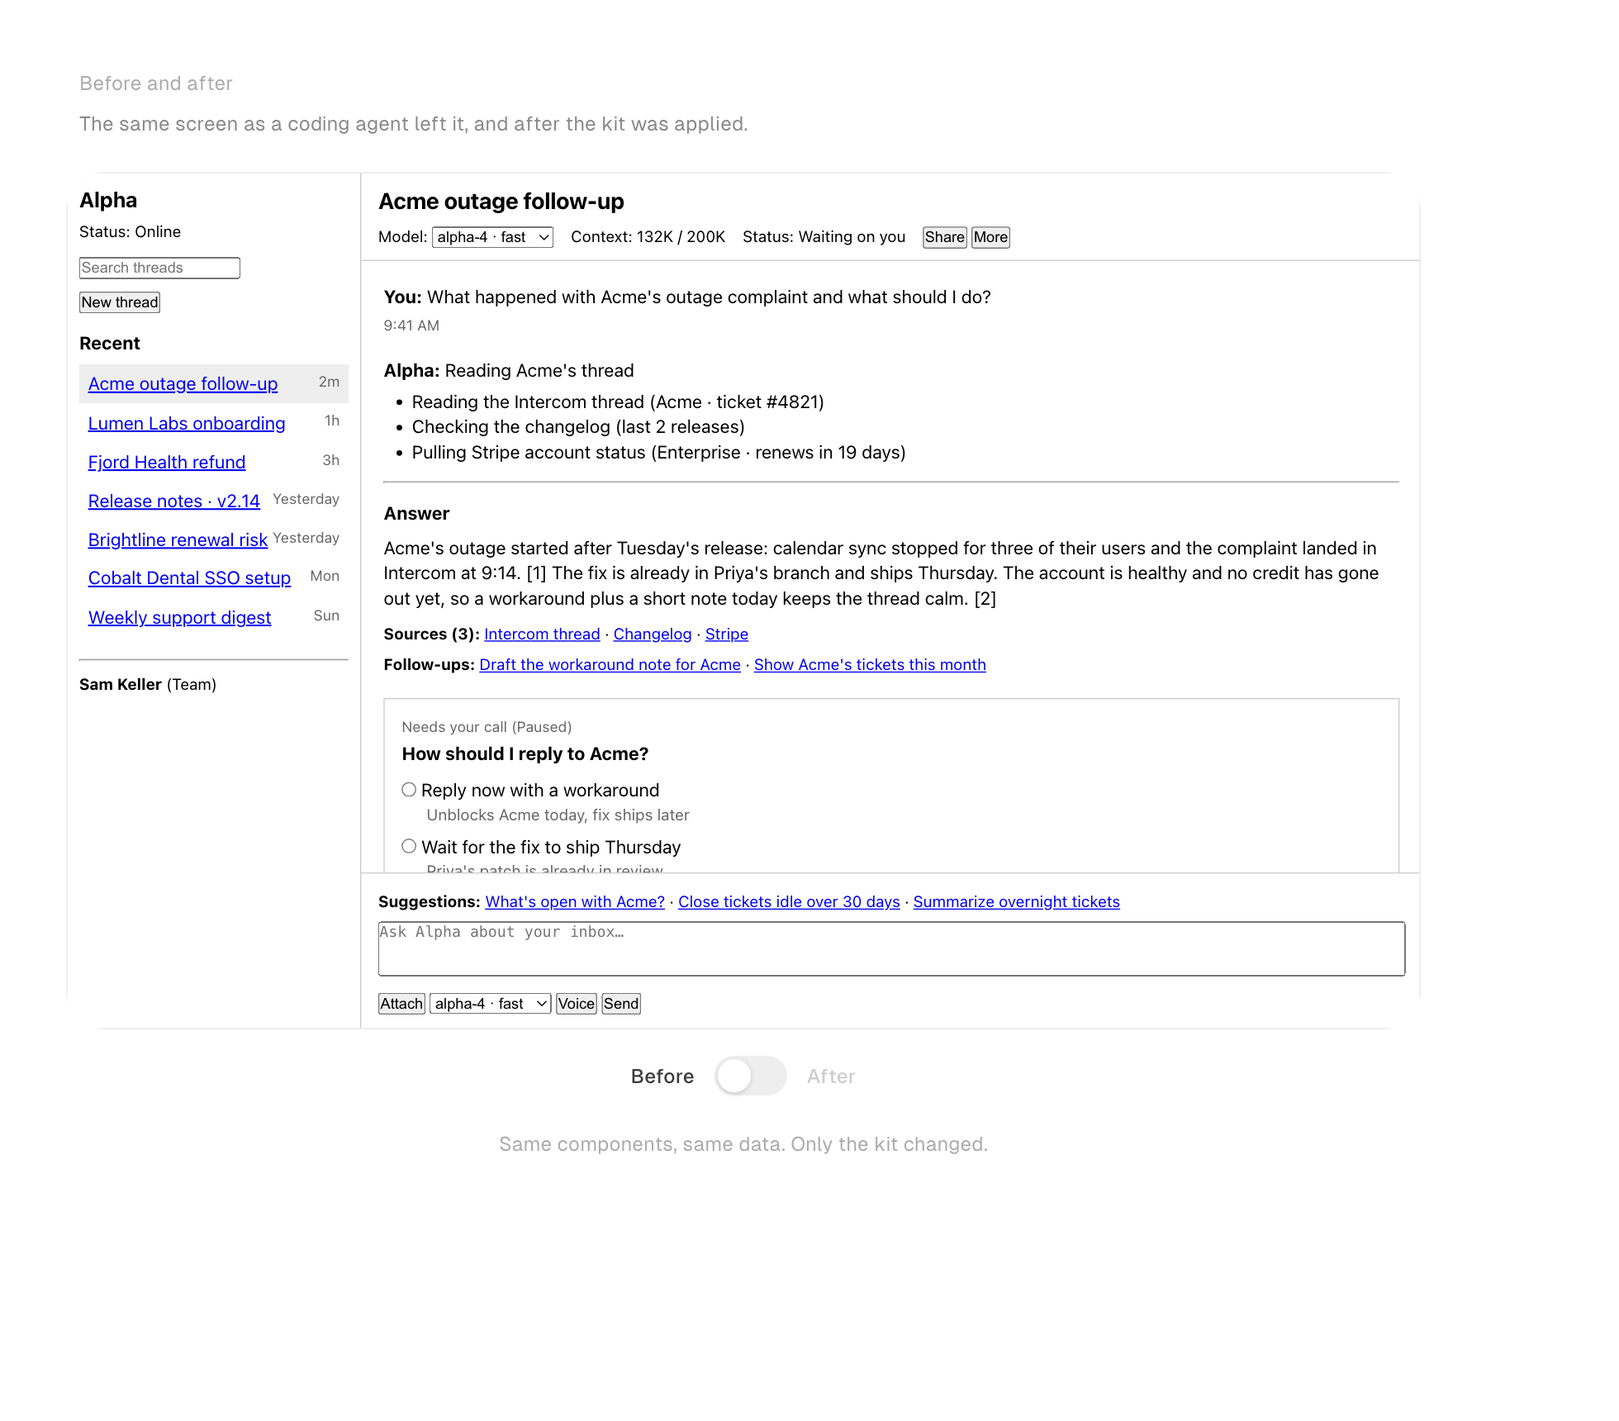
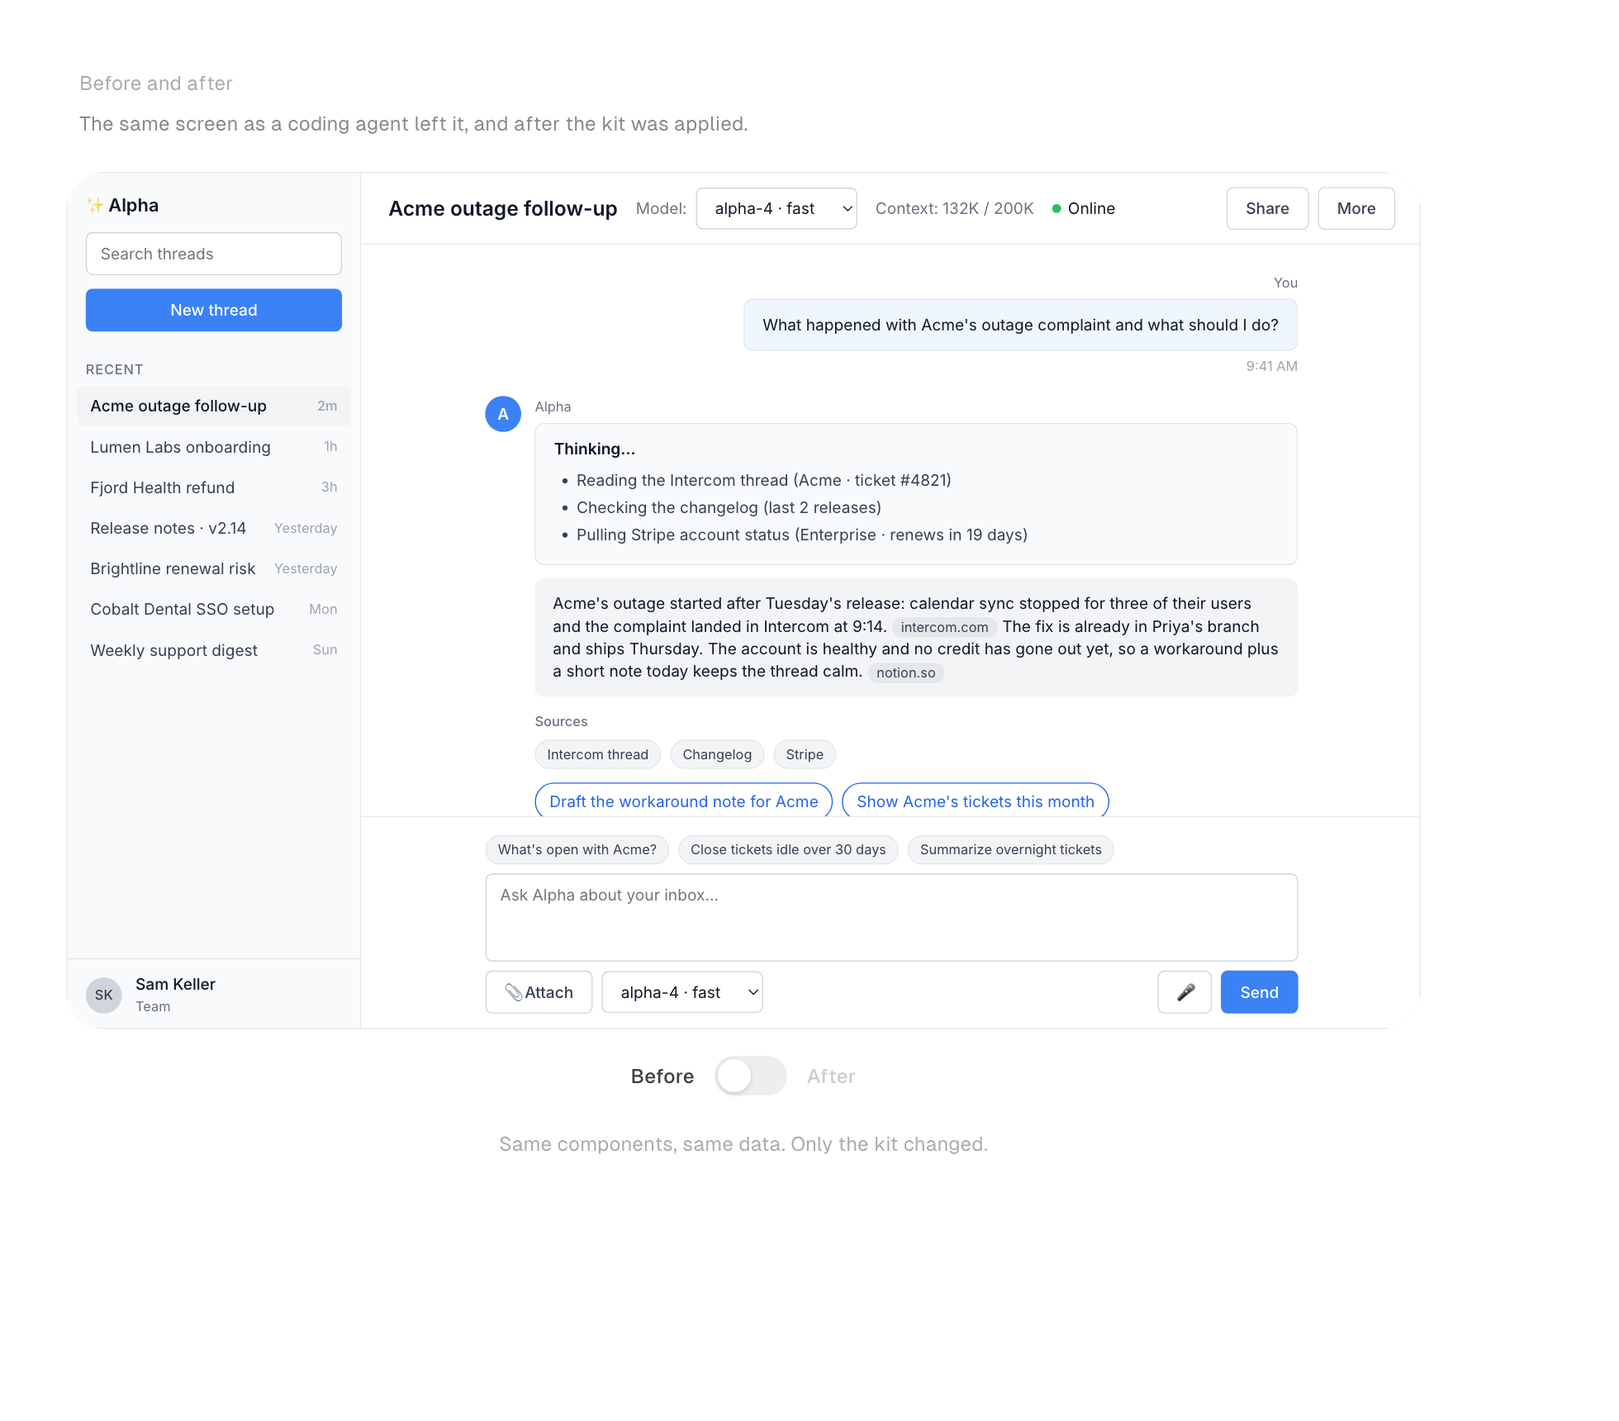
Before screen: a realistic generic first pass, not unstyled HTML
Inter, Tailwind palette, blue-500 buttons, gray sidebar, rounded cards and
bubbles, chips, emoji icons. Same data and regions as the After.

diff --git a/halaska-kit/halaska-kit-v1.3.jsx b/halaska-kit/halaska-kit-v1.3.jsx
@@ -11980,151 +11980,273 @@ function BeforeAfterSection({ theme }) {
 // Same content and regions as ChatParadigmExample, rendered with plain HTML
 // and browser defaults. Reuses the CHATX_* constants so the copy is identical.
 
-const CHATB_FONT = "system-ui, -apple-system, Segoe UI, Helvetica, Arial, sans-serif";
-const CHATB_LINK = { color: "#0000ee", textDecoration: "underline" };
+const CHATB_FONT = "Inter, ui-sans-serif, system-ui, -apple-system, sans-serif";
+
+// Tailwind default palette, as an AI first pass would reach for it.
+const CHATB_C = {
+  white: "#ffffff",
+  gray50: "#f9fafb", gray100: "#f3f4f6", gray200: "#e5e7eb", gray300: "#d1d5db",
+  gray400: "#9ca3af", gray500: "#6b7280", gray700: "#374151", gray900: "#111827",
+  blue50: "#eff6ff", blue500: "#3b82f6", blue600: "#2563eb",
+  green500: "#22c55e", yellow100: "#fef9c3", yellow800: "#854d0e",
+};
+
+const CHATB_SHADOW = "0 1px 2px rgba(0,0,0,0.05)";
+
 const CHATB_SUGGESTIONS = [
   "What's open with Acme?",
   "Close tickets idle over 30 days",
   "Summarize overnight tickets",
 ];
 
-function ChatBLinks({ items }) {
-  return items.map((item, i) => (
-    <span key={i}>
-      {i > 0 ? " · " : null}
-      <a href="#" onClick={(e) => e.preventDefault()} style={CHATB_LINK}>{item}</a>
-    </span>
-  ));
+const CHATB_BTN = {
+  fontFamily: CHATB_FONT, fontSize: 14, fontWeight: 500, lineHeight: "20px",
+  padding: "8px 16px", borderRadius: 6, cursor: "pointer", whiteSpace: "nowrap",
+};
+const CHATB_BTN_PRIMARY = { ...CHATB_BTN, background: CHATB_C.blue500, color: CHATB_C.white, border: "1px solid " + CHATB_C.blue500 };
+const CHATB_BTN_SECONDARY = { ...CHATB_BTN, background: CHATB_C.white, color: CHATB_C.gray700, border: "1px solid " + CHATB_C.gray300 };
+
+const CHATB_FIELD = {
+  fontFamily: CHATB_FONT, fontSize: 14, lineHeight: "20px", color: CHATB_C.gray900,
+  background: CHATB_C.white, border: "1px solid " + CHATB_C.gray300, borderRadius: 6,
+  padding: "8px 12px", boxSizing: "border-box",
+};
+
+const CHATB_PILL = {
+  display: "inline-block", fontFamily: CHATB_FONT, fontSize: 12, lineHeight: "16px",
+  padding: "4px 10px", borderRadius: 9999, background: CHATB_C.gray100,
+  border: "1px solid " + CHATB_C.gray200, color: CHATB_C.gray700, whiteSpace: "nowrap",
+};
+
+function ChatBButton({ variant, onClick, style, children }) {
+  const base = variant === "primary" ? CHATB_BTN_PRIMARY : CHATB_BTN_SECONDARY;
+  return <button type="button" onClick={onClick} style={{ ...base, ...style }}>{children}</button>;
+}
+
+function ChatBModelSelect({ value, onChange, style }) {
+  return (
+    <select value={value} onChange={(e) => onChange(e.target.value)} style={{ ...CHATB_FIELD, cursor: "pointer", ...style }}>
+      {CHATX_MODELS.map(m => <option key={m.id} value={m.id}>{m.label}</option>)}
+    </select>
+  );
+}
+
+function ChatBSectionLabel({ children, style }) {
+  return (
+    <div style={{ fontSize: 12, fontWeight: 500, color: CHATB_C.gray500, textTransform: "uppercase", letterSpacing: "0.05em", ...style }}>
+      {children}
+    </div>
+  );
 }
 
 function ChatParadigmBefore({ theme }) {
   const [activeThread, setActiveThread] = useState(CHATX_THREADS[0].id);
   const [model, setModel] = useState(CHATX_MODELS[0].id);
+  const [search, setSearch] = useState("");
   const [draft, setDraft] = useState("");
   const [choice, setChoice] = useState("");
   const activeTitle = (CHATX_THREADS.find(t => t.id === activeThread) || CHATX_THREADS[0]).title;
-
-  let cite = 0;
+  const visibleThreads = CHATX_THREADS.filter(t => t.title.toLowerCase().includes(search.trim().toLowerCase()));
 
   return (
     <div style={{
       position: "relative", width: "100%", height: "100%", overflow: "hidden",
-      background: "#fff", color: "#000", fontFamily: CHATB_FONT, fontSize: 16, lineHeight: 1.4,
+      background: CHATB_C.white, color: CHATB_C.gray900, fontFamily: CHATB_FONT, fontSize: 14, lineHeight: "20px",
       display: "flex",
     }}>
-      {/* Left: thread list */}
-      <div style={{ width: 260, flexShrink: 0, borderRight: "1px solid #ccc", overflow: "auto", padding: 10, boxSizing: "border-box" }}>
-        <h3 style={{ margin: "0 0 5px" }}>Alpha</h3>
-        <p style={{ margin: "0 0 10px", fontSize: 14 }}>Status: Online</p>
-        <div style={{ marginBottom: 8 }}>
-          <input type="text" placeholder="Search threads" />
+      {/* Sidebar */}
+      <div style={{
+        width: 260, flexShrink: 0, display: "flex", flexDirection: "column",
+        background: CHATB_C.gray50, borderRight: "1px solid " + CHATB_C.gray200, boxSizing: "border-box",
+      }}>
+        <div style={{ padding: 16, display: "flex", flexDirection: "column", gap: 12 }}>
+          <div style={{ fontSize: 16, fontWeight: 600, lineHeight: "24px" }}>✨ Alpha</div>
+          <input type="text" value={search} onChange={(e) => setSearch(e.target.value)}
+            placeholder="Search threads" style={{ ...CHATB_FIELD, width: "100%" }} />
+          <ChatBButton variant="primary" onClick={() => {}} style={{ width: "100%" }}>New thread</ChatBButton>
         </div>
-        <div style={{ marginBottom: 15 }}>
-          <button type="button">New thread</button>
+
+        <div style={{ flex: 1, minHeight: 0, overflow: "auto", padding: "0 8px 8px" }}>
+          <ChatBSectionLabel style={{ padding: "8px 8px 4px" }}>Recent</ChatBSectionLabel>
+          {visibleThreads.map(t => {
+            const active = t.id === activeThread;
+            return (
+              <button key={t.id} type="button" onClick={() => setActiveThread(t.id)}
+                style={{
+                  display: "flex", alignItems: "center", justifyContent: "space-between", gap: 8,
+                  width: "100%", padding: "8px 12px", borderRadius: 6, border: "none", cursor: "pointer", textAlign: "left",
+                  background: active ? CHATB_C.gray100 : "transparent",
+                  fontFamily: CHATB_FONT, fontSize: 14, lineHeight: "20px",
+                  color: active ? CHATB_C.gray900 : CHATB_C.gray700, fontWeight: active ? 500 : 400,
+                }}>
+                <span style={{ overflow: "hidden", textOverflow: "ellipsis", whiteSpace: "nowrap" }}>{t.title}</span>
+                <span style={{ fontSize: 12, color: CHATB_C.gray400, flexShrink: 0 }}>{t.time}</span>
+              </button>
+            );
+          })}
         </div>
-        <b>Recent</b>
-        <ul style={{ listStyle: "none", margin: "8px 0 0", padding: 0 }}>
-          {CHATX_THREADS.map(t => (
-            <li key={t.id}
-              style={{ padding: "6px 8px", background: t.id === activeThread ? "#eee" : "transparent" }}>
-              <a href="#" style={CHATB_LINK}
-                onClick={(e) => { e.preventDefault(); setActiveThread(t.id); }}>{t.title}</a>
-              <span style={{ float: "right", fontSize: 13, color: "#666" }}>{t.time}</span>
-            </li>
-          ))}
-        </ul>
-        <hr style={{ margin: "20px 0 10px" }} />
-        <p style={{ margin: 0, fontSize: 14 }}><b>Sam Keller</b> (Team)</p>
+
+        <div style={{
+          display: "flex", alignItems: "center", gap: 12, padding: "12px 16px",
+          borderTop: "1px solid " + CHATB_C.gray200,
+        }}>
+          <div style={{
+            width: 32, height: 32, borderRadius: 9999, background: CHATB_C.gray300, color: CHATB_C.gray700,
+            display: "flex", alignItems: "center", justifyContent: "center", fontSize: 12, fontWeight: 500, flexShrink: 0,
+          }}>SK</div>
+          <div style={{ minWidth: 0 }}>
+            <div style={{ fontWeight: 500, whiteSpace: "nowrap", overflow: "hidden", textOverflow: "ellipsis" }}>Sam Keller</div>
+            <div style={{ fontSize: 12, color: CHATB_C.gray500 }}>Team</div>
+          </div>
+        </div>
       </div>
 
-      {/* Main area */}
+      {/* Main column */}
       <div style={{ flex: 1, minWidth: 0, display: "flex", flexDirection: "column" }}>
         {/* Top bar */}
-        <div style={{ borderBottom: "1px solid #ccc", padding: "10px 15px", flexShrink: 0 }}>
-          <h2 style={{ margin: "0 0 8px", fontSize: 20 }}>{activeTitle}</h2>
-          <div style={{ fontSize: 14 }}>
-            <label>Model: <select value={model} onChange={(e) => setModel(e.target.value)}>
-              {CHATX_MODELS.map(m => <option key={m.id} value={m.id}>{m.label}</option>)}
-            </select></label>
-            <span style={{ marginLeft: 15 }}>Context: 132K / 200K</span>
-            <span style={{ marginLeft: 15 }}>Status: Waiting on you</span>
-            <span style={{ marginLeft: 15 }}>
-              <button type="button">Share</button> <button type="button">More</button>
-            </span>
+        <div style={{
+          display: "flex", alignItems: "center", gap: 16, padding: "12px 24px", flexShrink: 0,
+          background: CHATB_C.white, borderBottom: "1px solid " + CHATB_C.gray200,
+        }}>
+          <div style={{ fontSize: 18, fontWeight: 600, lineHeight: "28px", whiteSpace: "nowrap", overflow: "hidden", textOverflow: "ellipsis", minWidth: 0 }}>{activeTitle}</div>
+          <div style={{ display: "flex", alignItems: "center", gap: 8, flexShrink: 0 }}>
+            <span style={{ color: CHATB_C.gray500 }}>Model:</span>
+            <ChatBModelSelect value={model} onChange={setModel} />
+          </div>
+          <span style={{ color: CHATB_C.gray500, whiteSpace: "nowrap", flexShrink: 0 }}>Context: 132K / 200K</span>
+          <div style={{ display: "flex", alignItems: "center", gap: 6, flexShrink: 0 }}>
+            <span style={{ width: 8, height: 8, borderRadius: 9999, background: CHATB_C.green500, display: "inline-block" }} />
+            <span>Online</span>
+          </div>
+          <div style={{ flex: 1 }} />
+          <div style={{ display: "flex", gap: 8, flexShrink: 0 }}>
+            <ChatBButton onClick={() => {}}>Share</ChatBButton>
+            <ChatBButton onClick={() => {}}>More</ChatBButton>
           </div>
         </div>
 
         {/* Thread */}
-        <div style={{ flex: 1, minHeight: 0, overflow: "auto", padding: 20 }}>
-          <p style={{ margin: "0 0 5px" }}><b>You:</b> {CHATX_USER_MSG}</p>
-          <p style={{ margin: "0 0 20px", fontSize: 13, color: "#666" }}>9:41 AM</p>
+        <div style={{ flex: 1, minHeight: 0, overflow: "auto", padding: 24, background: CHATB_C.white }}>
+          <div style={{ maxWidth: 720, margin: "0 auto", display: "flex", flexDirection: "column", gap: 16 }}>
+            {/* User message */}
+            <div style={{ display: "flex", flexDirection: "column", alignItems: "flex-end" }}>
+              <div style={{ fontSize: 12, color: CHATB_C.gray500, marginBottom: 4 }}>You</div>
+              <div style={{
+                maxWidth: "75%", padding: "12px 16px", borderRadius: 8,
+                background: CHATB_C.blue50, border: "1px solid " + CHATB_C.gray200,
+              }}>{CHATX_USER_MSG}</div>
+              <div style={{ fontSize: 12, color: CHATB_C.gray400, marginTop: 4 }}>9:41 AM</div>
+            </div>
 
-          <p style={{ margin: "0 0 5px" }}><b>Alpha:</b> Reading Acme's thread</p>
-          <ul style={{ margin: "0 0 15px", paddingLeft: 25 }}>
-            {CHATX_THINK_STEPS.map((s, i) => (
-              <li key={i}>{s.label} ({s.detail})</li>
-            ))}
-          </ul>
+            {/* Assistant message */}
+            <div style={{ display: "flex", gap: 12 }}>
+              <div style={{
+                width: 32, height: 32, borderRadius: 9999, background: CHATB_C.blue500, color: CHATB_C.white,
+                display: "flex", alignItems: "center", justifyContent: "center", fontSize: 14, fontWeight: 600, flexShrink: 0,
+              }}>A</div>
+              <div style={{ flex: 1, minWidth: 0, display: "flex", flexDirection: "column", gap: 12 }}>
+                <div style={{ fontSize: 12, color: CHATB_C.gray500, marginBottom: -8 }}>Alpha</div>
 
-          <hr style={{ margin: "15px 0" }} />
+                {/* Thinking */}
+                <div style={{ background: CHATB_C.gray50, border: "1px solid " + CHATB_C.gray200, borderRadius: 8, padding: "12px 16px" }}>
+                  <div style={{ fontWeight: 600, marginBottom: 8 }}>Thinking...</div>
+                  <ul style={{ margin: 0, paddingLeft: 20, color: CHATB_C.gray700 }}>
+                    {CHATX_THINK_STEPS.map((s, i) => (
+                      <li key={i} style={{ marginBottom: 4 }}>{s.label} ({s.detail})</li>
+                    ))}
+                  </ul>
+                </div>
 
-          <p style={{ margin: "0 0 8px" }}><b>Answer</b></p>
-          <p style={{ margin: "0 0 10px" }}>
-            {CHATX_ANSWER_SEGMENTS.map((seg, i) => {
-              if (seg.chip) { cite += 1; return <span key={i}> [{cite}]</span>; }
-              return <span key={i}>{seg.t || seg.text}</span>;
-            })}
-          </p>
-          <p style={{ margin: "0 0 8px", fontSize: 14 }}>
-            <b>Sources ({CHATX_ANSWER_SOURCES.length}):</b>{" "}
-            <ChatBLinks items={CHATX_ANSWER_SOURCES.map(s => s.name)} />
-          </p>
-          <p style={{ margin: "0 0 20px", fontSize: 14 }}>
-            <b>Follow-ups:</b>{" "}
-            <ChatBLinks items={CHATX_ANSWER_FOLLOWUPS} />
-          </p>
+                {/* Answer bubble */}
+                <div style={{ background: CHATB_C.gray100, borderRadius: 8, padding: "12px 16px" }}>
+                  <p style={{ margin: 0 }}>
+                    {CHATX_ANSWER_SEGMENTS.map((seg, i) => {
+                      if (seg.chip) {
+                        return (
+                          <span key={i} style={{
+                            display: "inline-block", fontSize: 12, lineHeight: "16px", padding: "1px 8px", marginLeft: 4,
+                            borderRadius: 9999, background: CHATB_C.gray200, color: CHATB_C.gray700, verticalAlign: "middle",
+                          }}>{seg.chip}</span>
+                        );
+                      }
+                      return <span key={i}>{seg.t || seg.text}</span>;
+                    })}
+                  </p>
+                </div>
 
-          <div style={{ border: "1px solid #ccc", padding: 15, marginBottom: 10 }}>
-            <p style={{ margin: "0 0 4px", fontSize: 13, color: "#666" }}>Needs your call (Paused)</p>
-            <p style={{ margin: "0 0 10px" }}><b>How should I reply to Acme?</b></p>
-            {CHATX_APPROVAL_OPTIONS.map(o => (
-              <div key={o.id} style={{ marginBottom: 8 }}>
-                <label>
-                  <input type="radio" name="chatb-approval" value={o.id}
-                    checked={choice === o.id} onChange={() => setChoice(o.id)} />
-                  {" "}{o.title}
-                </label>
-                <div style={{ fontSize: 14, color: "#666", marginLeft: 22 }}>{o.sub}</div>
+                {/* Sources */}
+                <div>
+                  <div style={{ fontSize: 12, fontWeight: 500, color: CHATB_C.gray500, marginBottom: 6 }}>Sources</div>
+                  <div style={{ display: "flex", flexWrap: "wrap", gap: 8 }}>
+                    {CHATX_ANSWER_SOURCES.map(s => (
+                      <span key={s.name} style={CHATB_PILL}>{s.name}</span>
+                    ))}
+                  </div>
+                </div>
+
+                {/* Follow-ups */}
+                <div style={{ display: "flex", flexWrap: "wrap", gap: 8 }}>
+                  {CHATX_ANSWER_FOLLOWUPS.map(f => (
+                    <button key={f} type="button" onClick={() => setDraft(f)} style={{
+                      fontFamily: CHATB_FONT, fontSize: 14, lineHeight: "20px", padding: "6px 12px", borderRadius: 9999,
+                      background: CHATB_C.white, border: "1px solid " + CHATB_C.blue600, color: CHATB_C.blue600, cursor: "pointer",
+                    }}>{f}</button>
+                  ))}
+                </div>
+
+                {/* Approval card */}
+                <div style={{
+                  background: CHATB_C.white, border: "1px solid " + CHATB_C.gray200, borderRadius: 8,
+                  boxShadow: CHATB_SHADOW, padding: 16,
+                }}>
+                  <div style={{ display: "flex", alignItems: "center", justifyContent: "space-between", gap: 8, marginBottom: 4 }}>
+                    <div style={{ fontSize: 16, fontWeight: 600, lineHeight: "24px" }}>How should I reply to Acme?</div>
+                    <span style={{
+                      fontSize: 12, lineHeight: "16px", fontWeight: 500, padding: "2px 8px", borderRadius: 9999,
+                      background: CHATB_C.yellow100, color: CHATB_C.yellow800, whiteSpace: "nowrap",
+                    }}>Paused</span>
+                  </div>
+                  <div style={{ color: CHATB_C.gray500, marginBottom: 12 }}>Needs your call before Alpha continues.</div>
+                  <div style={{ display: "flex", flexDirection: "column", gap: 8, marginBottom: 12 }}>
+                    {CHATX_APPROVAL_OPTIONS.map(o => (
+                      <label key={o.id} style={{ display: "flex", alignItems: "flex-start", gap: 8, cursor: "pointer" }}>
+                        <input type="radio" name="chatb-approval" value={o.id}
+                          checked={choice === o.id} onChange={() => setChoice(o.id)} style={{ marginTop: 3 }} />
+                        <span>
+                          <span style={{ display: "block", fontWeight: 500 }}>{o.title}</span>
+                          <span style={{ display: "block", fontSize: 12, color: CHATB_C.gray500 }}>{o.sub}</span>
+                        </span>
+                      </label>
+                    ))}
+                  </div>
+                  <div style={{ display: "flex", gap: 8 }}>
+                    <ChatBButton variant="primary" onClick={() => {}}>Confirm</ChatBButton>
+                    <ChatBButton onClick={() => {}}>Skip</ChatBButton>
+                  </div>
+                </div>
               </div>
-            ))}
-            <div style={{ marginTop: 10 }}>
-              <button type="button">Confirm</button> <button type="button">Skip</button>
             </div>
           </div>
         </div>
 
         {/* Composer */}
-        <div style={{ borderTop: "1px solid #ccc", padding: 15, flexShrink: 0 }}>
-          <p style={{ margin: "0 0 8px", fontSize: 14 }}>
-            <b>Suggestions:</b>{" "}
-            {CHATB_SUGGESTIONS.map((s, i) => (
-              <span key={s}>
-                {i > 0 ? " · " : null}
-                <a href="#" style={CHATB_LINK} onClick={(e) => { e.preventDefault(); setDraft(s); }}>{s}</a>
-              </span>
-            ))}
-          </p>
-          <div>
+        <div style={{ flexShrink: 0, padding: "16px 24px", background: CHATB_C.white, borderTop: "1px solid " + CHATB_C.gray200 }}>
+          <div style={{ maxWidth: 720, margin: "0 auto" }}>
+            <div style={{ display: "flex", flexWrap: "wrap", gap: 8, marginBottom: 8 }}>
+              {CHATB_SUGGESTIONS.map(s => (
+                <button key={s} type="button" onClick={() => setDraft(s)} style={{ ...CHATB_PILL, cursor: "pointer" }}>{s}</button>
+              ))}
+            </div>
             <textarea rows={3} value={draft} onChange={(e) => setDraft(e.target.value)}
-              placeholder="Ask Alpha about your inbox…" style={{ width: "100%", boxSizing: "border-box" }} />
-          </div>
-          <div style={{ marginTop: 8, fontSize: 14 }}>
-            <button type="button">Attach</button>{" "}
-            <select value={model} onChange={(e) => setModel(e.target.value)}>
-              {CHATX_MODELS.map(m => <option key={m.id} value={m.id}>{m.label}</option>)}
-            </select>{" "}
-            <button type="button">Voice</button>{" "}
-            <button type="button">Send</button>
+              placeholder="Ask Alpha about your inbox..."
+              style={{ ...CHATB_FIELD, width: "100%", resize: "none", display: "block" }} />
+            <div style={{ display: "flex", alignItems: "center", gap: 8, marginTop: 8 }}>
+              <ChatBButton onClick={() => {}}>📎 Attach</ChatBButton>
+              <ChatBModelSelect value={model} onChange={setModel} />
+              <div style={{ flex: 1 }} />
+              <ChatBButton onClick={() => {}}>🎤</ChatBButton>
+              <ChatBButton variant="primary" onClick={() => {}}>Send</ChatBButton>
+            </div>
           </div>
         </div>
       </div>
